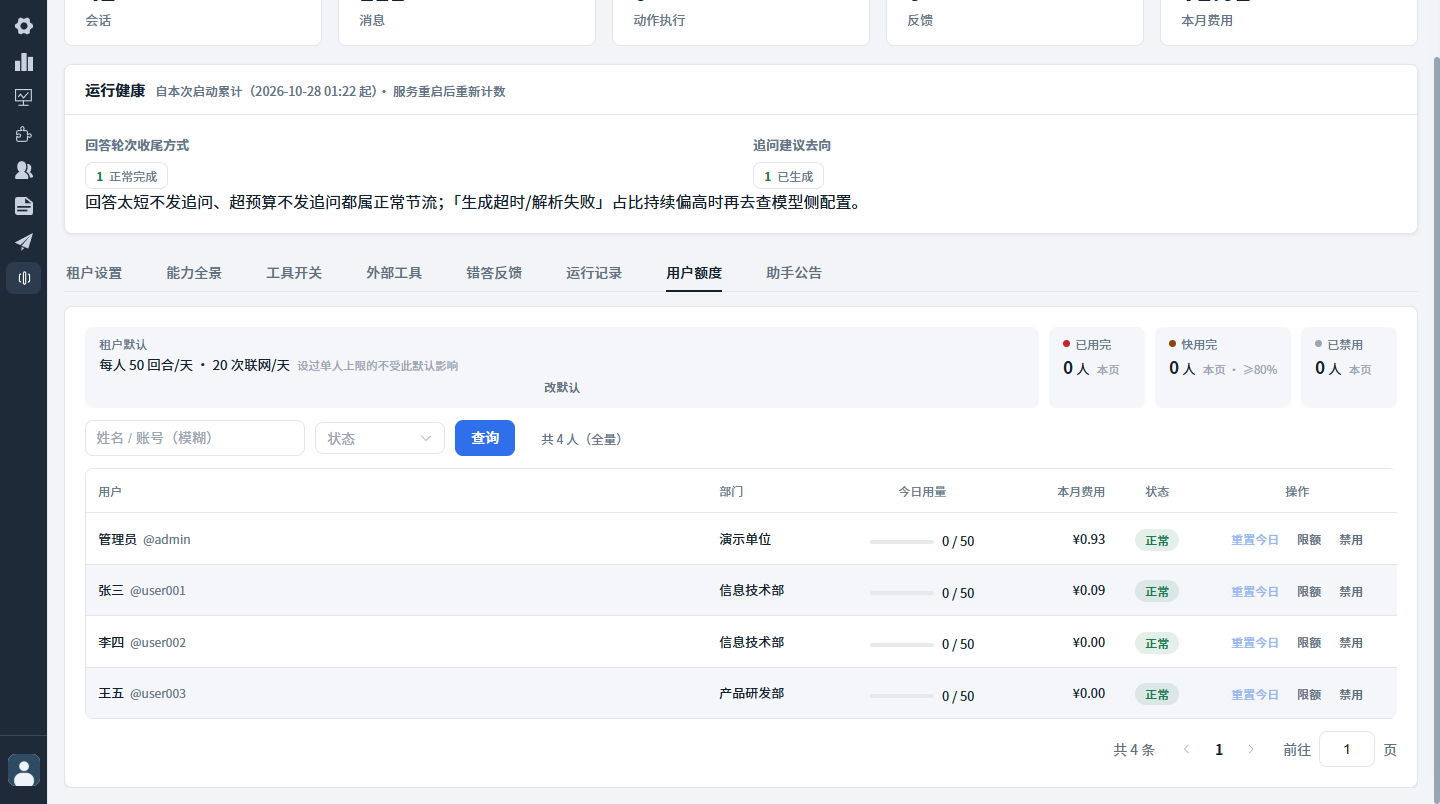
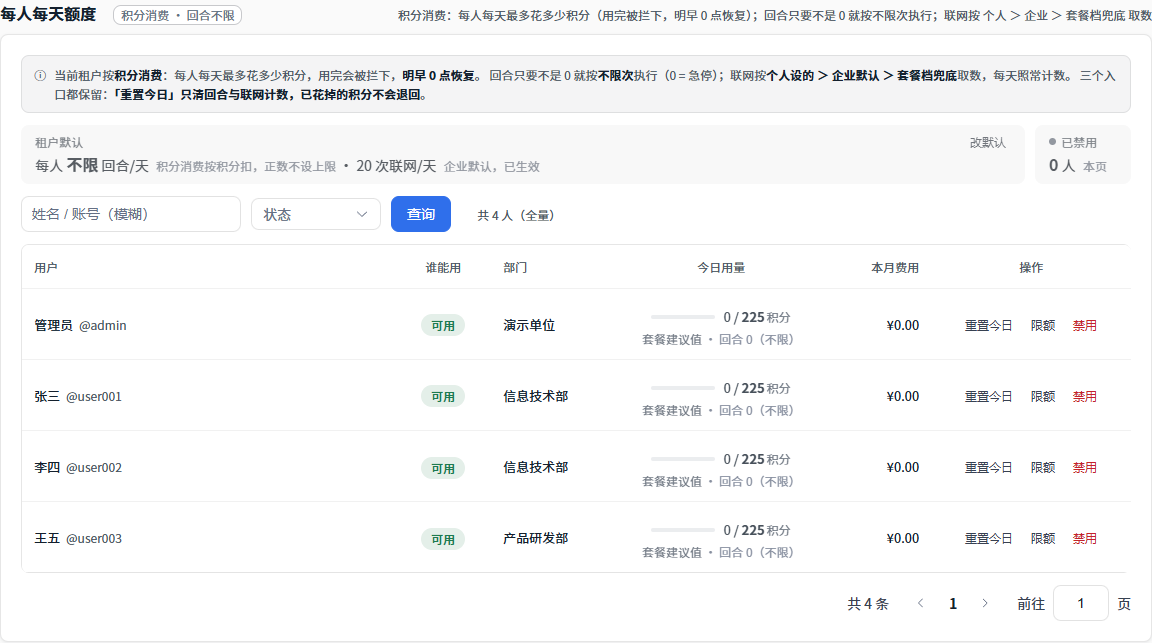
docs: 收口补漏——部署坑落纸、架构图工具名改真名、README 额度截图重拍
11-25 / 11-26 三批（钱包 84cb77b、额度 + 搜索 2be1f80）落地后留下的文档尾巴，一次补齐。

- docs/deploy.md §7：补「前端」升级一条（原来只写了后端）；记下前端静态文件改用
  「绑定挂载」时的两个坑——挂载只读时 docker cp 必失败；用 mv 对调新旧目录后容器
  读到的还是旧目录（nginx -s reload 只重读配置、不重新挂载，必须 docker restart）。
  验证口径 = 比对宿主与容器内 index.html 引用的入口 js 文件名是否一致
- docs/images/ai-flow.svg：业务工具 4 个名字去掉旧前缀（query_tasks / query_my_todos /
  query_submissions / create_task），对着 ToolProvider.java:60/65/69/75 改；
  后端源码里带旧前缀的这四个名字已是 0 处，文档里只剩这张图
- README：19-assistant-quota.png 还是 10-28 的「用户额度」旧结构（二级页签 + 用户表），
  换成现在「每人每天额度」分区的真机图（1152×643）；图注跟着改成图上真有的东西
  （原写「超额状态」的那一列已不存在）

没动的：README 的管理端总览图（版面与现在一致，只是数字旧）和工作台入口图
（输入条版面与现在一致）不重拍。

验证：
- 文档旧代号门禁（.workshop/tmp/verify-doc-dcs-clean.cjs）0 失败
- README 24 处本地引用全部能解析到 git 追踪的文件
- SVG 渲染后原生读图；新截图原生读图

diff --git a/docs/deploy.md b/docs/deploy.md
@@ -119,8 +119,22 @@ docker compose up -d
 ## 7. 升级
 
 - 后端：重新 `mvn package` 后 `docker compose up -d --build backend`；
+- 前端：重新 `npm run build:prod` 后 `docker compose up -d --build frontend`（`dist/` 是打进镜像的，见 `deploy/frontend/Dockerfile`）；
 - 数据库：本基线之后的结构变更一律新增 `NNN_*.sql` 增量脚本，按序执行；
 - 回滚：镜像钉版 + 数据卷常驻，`docker compose down`（不加 `-v`）可安全回退。
+
+**前端静态文件改用「绑定挂载」时的两个坑**（绑定挂载：把宿主机的 `dist/` 目录直接挂进 nginx 容器，容器读的就是宿主那份文件。一键起栈不是这种方式，以上一条为准）：
+
+1. **挂载只读时 `docker cp` 必失败**——往容器里拷文件会被拒。要换文件，改宿主机上的目录。
+2. **用 `mv` 把新旧目录对调后，容器读到的还是旧文件**——挂载在容器启动时就认准了当时那个目录，对调后它仍指着旧的那份；
+   `nginx -s reload` 不管用（它只重读配置，不重新挂载），必须 `docker restart <前端容器>`。
+
+验证（比看页面快，能直接抓到「没换过来」）：宿主与容器内各看一次入口 js 的文件名，两者必须一致。
+
+```bash
+grep -o 'index-[A-Za-z0-9_-]*\.js' <宿主 dist 目录>/index.html
+docker exec <前端容器> grep -o 'index-[A-Za-z0-9_-]*\.js' /usr/share/nginx/html/index.html
+```
 
 ## 8. 健康检查
 

diff --git a/README.md b/README.md
@@ -453,7 +453,7 @@ public class BizEventReporter {
 </tr>
 <tr>
 <td width="50%"><img src="docs/images/screenshots/12-assistant-admin.png" alt="AI 助手管理端"><br><sub>管理端总览：开关、每日回合上限、联网次数与租户日预算，加上进程内运行健康</sub></td>
-<td width="50%"><img src="docs/images/screenshots/19-assistant-quota.png" alt="用户额度"><br><sub>用户额度：每人每日回合与联网次数、本月费用、超额状态，按人可调</sub></td>
+<td width="50%"><img src="docs/images/screenshots/19-assistant-quota.png" alt="每人每天额度"><br><sub>每人每天额度：企业设默认，再按人覆盖回合 / 联网 / 积分三项；今日用量、本月费用、谁能用一目了然</sub></td>
 </tr>
 <tr>
 <td width="50%"><img src="docs/images/screenshots/17-assistant-panorama.png" alt="能力全景"><br><sub>能力全景：助手会用哪些工具、怎么执行、什么门槛、本租户是否生效</sub></td>
